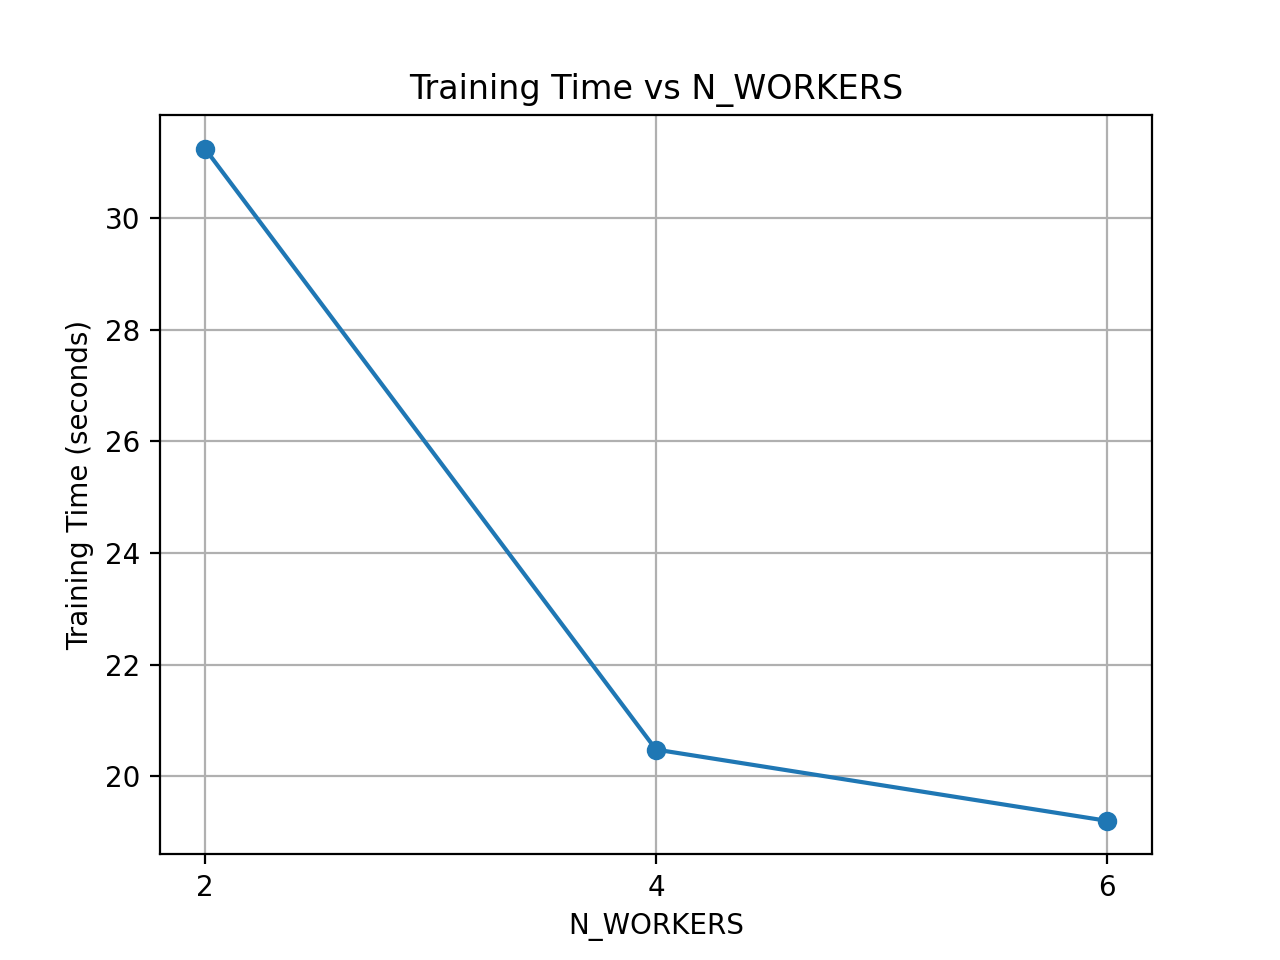
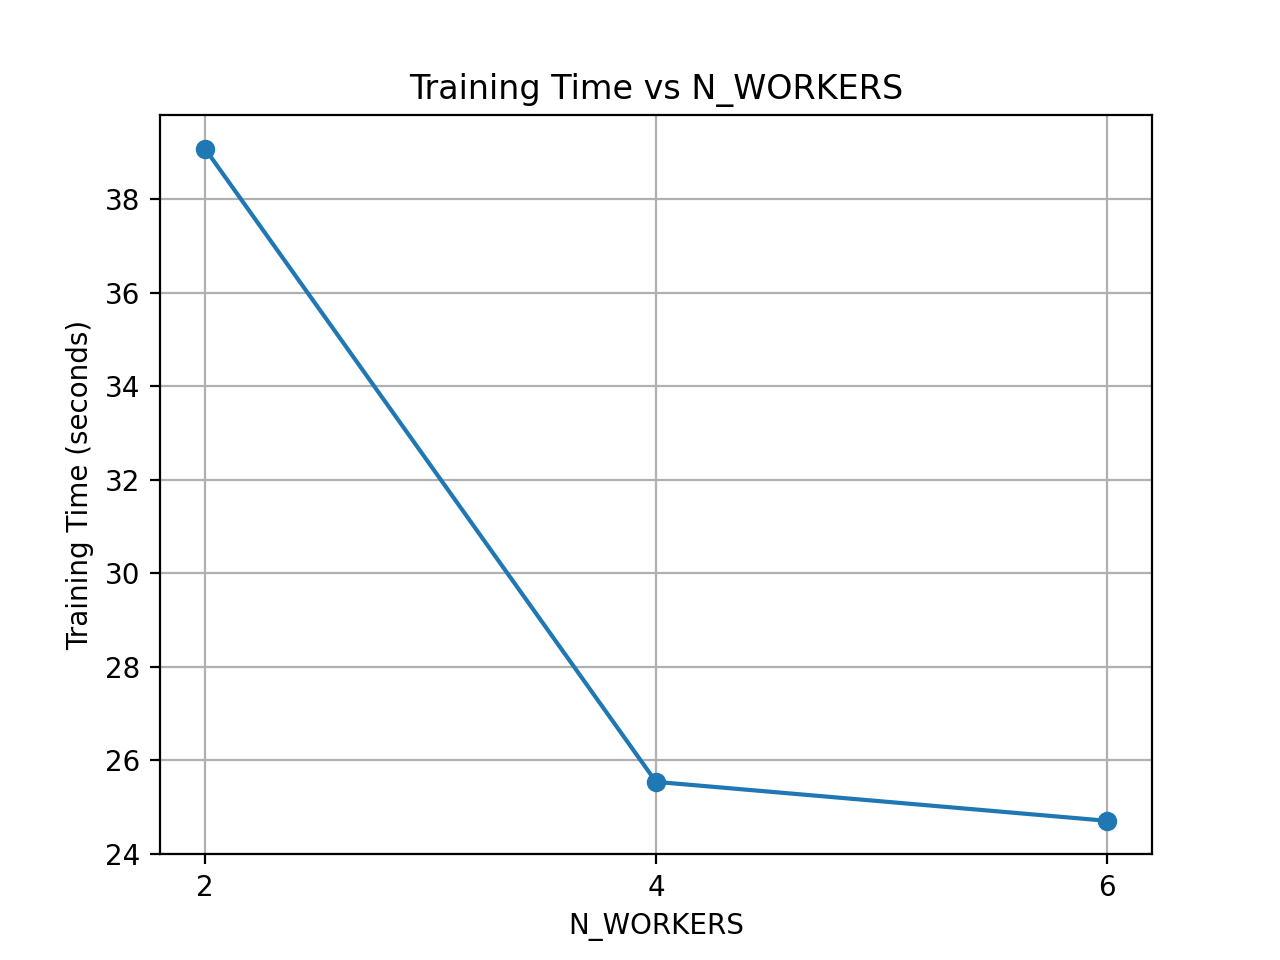
vs

diff --git a/java/src/main/java/pso/WorkerTransformer.java b/java/src/main/java/pso/WorkerTransformer.java
@@ -170,10 +170,11 @@ public class WorkerTransformer implements Transformer<String, DataMessage, KeyVa
             }
 
             long idleNs = System.nanoTime() - t1.get();
+            
             if (idleNs >= TimeUnit.MILLISECONDS.toNanos(IDLE_MS) && !ws.endedWorker) {
                 if (logger.isEnabled(2)) logger.log(taskInstance + 
                     ", Closed, because of idleness for " + (idleNs / 1_000_000) + " ms");
-                System.out.println("Closed, because of idleness for " + (idleNs / 1_000_000) + " ms");
+                System.out.println("[Worker" + workerId +"] closed, because of idleness for " + (idleNs / 1_000_000) + " ms");
                 CoordinatorControl.getInstance().requestStop(workerId);
                 ws.endedWorker = true;
             }
